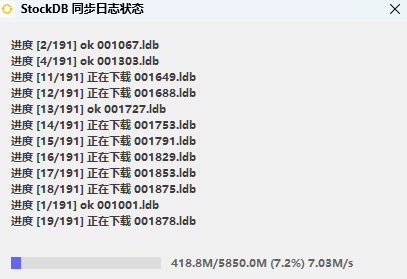
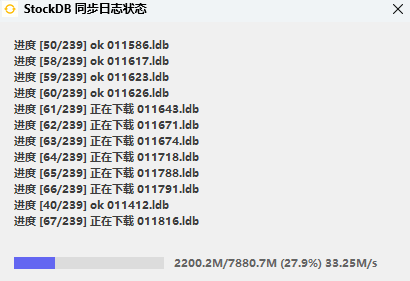
重要更新！数据改成原始数据！0误差！截至07-01

diff --git a/调用方式/ai_mcp/stock_sdk.py b/调用方式/ai_mcp/stock_sdk.py
@@ -297,6 +297,87 @@ class StockDBClient:
 
         return merged_list
 
+    def _apply_fq_in_memory(self, code: str, records: List[Dict[str, Any]], fq_type: str) -> List[Dict[str, Any]]:
+        """
+        在内存中对 K 线记录（日K或分钟K）执行动态前复权（qfq）或后复权（hfq）折算
+        """
+        if not records or fq_type not in ('qfq', 'hfq'):
+            return records
+
+        # 1. 获取该股票的所有复权因子 (Key 格式: 复权:code:date)
+        try:
+            factor_keys = sorted(self.rd.keys(f"复权:{code}:*"), key=lambda x: str(x))
+        except Exception:
+            factor_keys = []
+
+        if not factor_keys:
+            return records
+
+        # 2. 构建除息日与累积因子的映射表
+        factors = {}
+        for k in factor_keys:
+            date_str = str(k).split(":")[-1]
+            try:
+                val = self.rd.get(str(k))
+                if val and "cum" in val:
+                    factors[date_str] = float(val["cum"])
+            except Exception:
+                pass
+
+        if not factors:
+            return records
+
+        # 前复权需要最新因子 F_latest
+        if fq_type == 'qfq':
+            latest_date = max(factors.keys())
+            f_latest = factors[latest_date]
+
+        decimals = 3 if code.startswith(('1', '5')) else 2
+        adjusted_records = []
+
+        for r in records:
+            # 分钟K线 date 是 14 位整数，如 20260629150000; 日K是 8 位，如 20260629
+            r_date_str = str(r.get('date', ''))[:8]
+            if not r_date_str:
+                adjusted_records.append(r)
+                continue
+
+            # 寻找该记录日期之前最邻近除权日的因子 F_current
+            # 即: 所有 <= r_date_str 的除权日中，日期最大的那一个
+            prev_dates = [d for d in factors.keys() if d <= r_date_str]
+            if prev_dates:
+                f_current = factors[max(prev_dates)]
+            else:
+                f_current = 1.0
+
+            # 根据复权类型计算折算比例
+            if fq_type == 'qfq':
+                # 前复权：价格除以 (F_latest / F_current)
+                ratio = f_latest / f_current
+            else:
+                # 后复权：价格乘以 F_current，相当于除以 (1 / F_current)
+                ratio = 1.0 / f_current
+
+            if abs(ratio - 1.0) < 1e-6:
+                adjusted_records.append(r)
+                continue
+
+            # 拷贝记录字典，避免直接修改底层数据库缓存的对象
+            try:
+                r_copy = r.copy()
+            except Exception:
+                r_copy = {k: v for k, v in r.items()}
+
+            for field in ['open', 'high', 'low', 'close', 'pre_close']:
+                if field in r_copy and r_copy[field] is not None:
+                    try:
+                        r_copy[field] = round(float(r_copy[field]) / ratio, decimals)
+                    except Exception:
+                        pass
+            adjusted_records.append(r_copy)
+
+        return adjusted_records
+
     # ================= 同步接口 =================
     def get_data(
         self,
@@ -307,7 +388,8 @@ class StockDBClient:
         fields: Optional[Union[str, List[str]]] = None,
         limit: Optional[int] = None,
         desc: bool = False,
-        as_df: bool = False
+        as_df: bool = False,
+        fq: Optional[str] = 'qfq'
     ) -> Union[List[Dict[str, Any]], Dict[str, List[Dict[str, Any]]], Any]:
         """
         同步获取 K 线数据（日K、分钟K、周K、月K）
@@ -344,6 +426,10 @@ class StockDBClient:
             
             # 剔除底层可能返回的 None 空值（例如无成交、停牌或缺失的分钟数据）
             records = [r for r in records if r is not None]
+            
+            # 在内存中执行动态前/后复权折算
+            if fq in ('qfq', 'hfq'):
+                records = self._apply_fq_in_memory(c, records, fq)
             
             # 运行合并逻辑
             if frequency in ('1w', '1M'):
@@ -386,7 +472,8 @@ class StockDBClient:
         fields: Optional[Union[str, List[str]]] = None,
         limit: Optional[int] = None,
         desc: bool = False,
-        as_df: bool = False
+        as_df: bool = False,
+        fq: Optional[str] = 'qfq'
     ) -> Union[List[Dict[str, Any]], Dict[str, List[Dict[str, Any]]], Any]:
         """
         异步获取 K 线数据（日K、分钟K、周K、月K）
@@ -422,6 +509,10 @@ class StockDBClient:
             
             # 剔除底层可能返回的 None 空值（例如无成交、停牌或缺失的分钟数据）
             records = [r for r in records if r is not None]
+            
+            # 在内存中执行动态前/后复权折算
+            if fq in ('qfq', 'hfq'):
+                records = self._apply_fq_in_memory(c, records, fq)
             
             if frequency in ('1w', '1M'):
                 records = self._merge_to_period(records, frequency)

diff --git a/调用方式/python/stock_sdk.py b/调用方式/python/stock_sdk.py
@@ -297,6 +297,87 @@ class StockDBClient:
 
         return merged_list
 
+    def _apply_fq_in_memory(self, code: str, records: List[Dict[str, Any]], fq_type: str) -> List[Dict[str, Any]]:
+        """
+        在内存中对 K 线记录（日K或分钟K）执行动态前复权（qfq）或后复权（hfq）折算
+        """
+        if not records or fq_type not in ('qfq', 'hfq'):
+            return records
+
+        # 1. 获取该股票的所有复权因子 (Key 格式: 复权:code:date)
+        try:
+            factor_keys = sorted(self.rd.keys(f"复权:{code}:*"), key=lambda x: str(x))
+        except Exception:
+            factor_keys = []
+
+        if not factor_keys:
+            return records
+
+        # 2. 构建除息日与累积因子的映射表
+        factors = {}
+        for k in factor_keys:
+            date_str = str(k).split(":")[-1]
+            try:
+                val = self.rd.get(str(k))
+                if val and "cum" in val:
+                    factors[date_str] = float(val["cum"])
+            except Exception:
+                pass
+
+        if not factors:
+            return records
+
+        # 前复权需要最新因子 F_latest
+        if fq_type == 'qfq':
+            latest_date = max(factors.keys())
+            f_latest = factors[latest_date]
+
+        decimals = 3 if code.startswith(('1', '5')) else 2
+        adjusted_records = []
+
+        for r in records:
+            # 分钟K线 date 是 14 位整数，如 20260629150000; 日K是 8 位，如 20260629
+            r_date_str = str(r.get('date', ''))[:8]
+            if not r_date_str:
+                adjusted_records.append(r)
+                continue
+
+            # 寻找该记录日期之前最邻近除权日的因子 F_current
+            # 即: 所有 <= r_date_str 的除权日中，日期最大的那一个
+            prev_dates = [d for d in factors.keys() if d <= r_date_str]
+            if prev_dates:
+                f_current = factors[max(prev_dates)]
+            else:
+                f_current = 1.0
+
+            # 根据复权类型计算折算比例
+            if fq_type == 'qfq':
+                # 前复权：价格除以 (F_latest / F_current)
+                ratio = f_latest / f_current
+            else:
+                # 后复权：价格乘以 F_current，相当于除以 (1 / F_current)
+                ratio = 1.0 / f_current
+
+            if abs(ratio - 1.0) < 1e-6:
+                adjusted_records.append(r)
+                continue
+
+            # 拷贝记录字典，避免直接修改底层数据库缓存的对象
+            try:
+                r_copy = r.copy()
+            except Exception:
+                r_copy = {k: v for k, v in r.items()}
+
+            for field in ['open', 'high', 'low', 'close', 'pre_close']:
+                if field in r_copy and r_copy[field] is not None:
+                    try:
+                        r_copy[field] = round(float(r_copy[field]) / ratio, decimals)
+                    except Exception:
+                        pass
+            adjusted_records.append(r_copy)
+
+        return adjusted_records
+
     # ================= 同步接口 =================
     def get_data(
         self,
@@ -307,7 +388,8 @@ class StockDBClient:
         fields: Optional[Union[str, List[str]]] = None,
         limit: Optional[int] = None,
         desc: bool = False,
-        as_df: bool = False
+        as_df: bool = False,
+        fq: Optional[str] = 'qfq'
     ) -> Union[List[Dict[str, Any]], Dict[str, List[Dict[str, Any]]], Any]:
         """
         同步获取 K 线数据（日K、分钟K、周K、月K）
@@ -344,6 +426,10 @@ class StockDBClient:
             
             # 剔除底层可能返回的 None 空值（例如无成交、停牌或缺失的分钟数据）
             records = [r for r in records if r is not None]
+            
+            # 在内存中执行动态前/后复权折算
+            if fq in ('qfq', 'hfq'):
+                records = self._apply_fq_in_memory(c, records, fq)
             
             # 运行合并逻辑
             if frequency in ('1w', '1M'):
@@ -386,7 +472,8 @@ class StockDBClient:
         fields: Optional[Union[str, List[str]]] = None,
         limit: Optional[int] = None,
         desc: bool = False,
-        as_df: bool = False
+        as_df: bool = False,
+        fq: Optional[str] = 'qfq'
     ) -> Union[List[Dict[str, Any]], Dict[str, List[Dict[str, Any]]], Any]:
         """
         异步获取 K 线数据（日K、分钟K、周K、月K）
@@ -422,6 +509,10 @@ class StockDBClient:
             
             # 剔除底层可能返回的 None 空值（例如无成交、停牌或缺失的分钟数据）
             records = [r for r in records if r is not None]
+            
+            # 在内存中执行动态前/后复权折算
+            if fq in ('qfq', 'hfq'):
+                records = self._apply_fq_in_memory(c, records, fq)
             
             if frequency in ('1w', '1M'):
                 records = self._merge_to_period(records, frequency)

diff --git a/调用方式/python/sdk_test.py b/调用方式/python/sdk_test.py
@@ -11,7 +11,8 @@ def main():
         start="20260625", 
         end="20260625", 
         frequency="5m", 
-        fields="code,volume,amount,close,date"
+        fields="code,volume,amount,close,date",
+        fq="qfq"
     )
     print(k)
 
@@ -30,6 +31,7 @@ if __name__ == "__main__":
             limit=100,                       # 【可选】默认None(不限)。限制返回的最大记录条数
             desc=False,                      # 【可选】默认False(升序)。True(时间降序) / False(时间升序)
             as_df=False                      # 【可选】默认False(返回list)。True(返回 Pandas DataFrame) / False
+            fq="qfq"                         # 【可选】默认qfq(返回前复权)。hfq(返回 后复权) / None返回 不复权
         )
         print(k)
     """